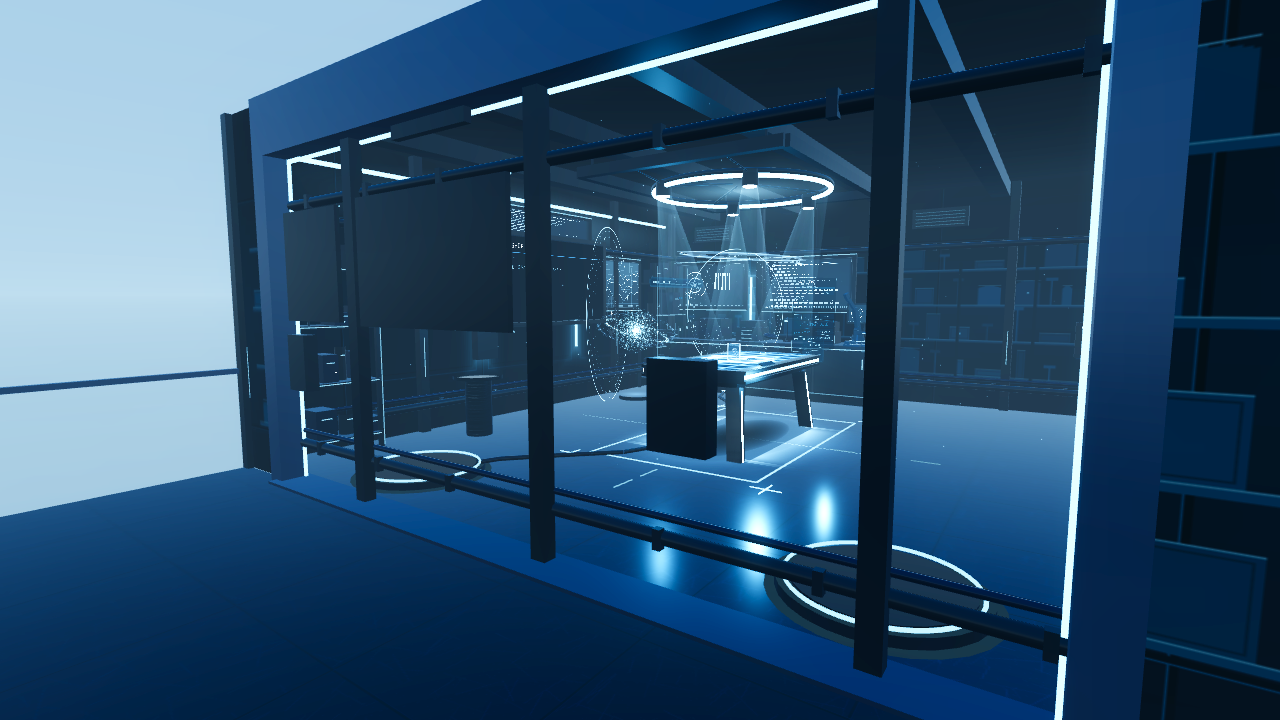
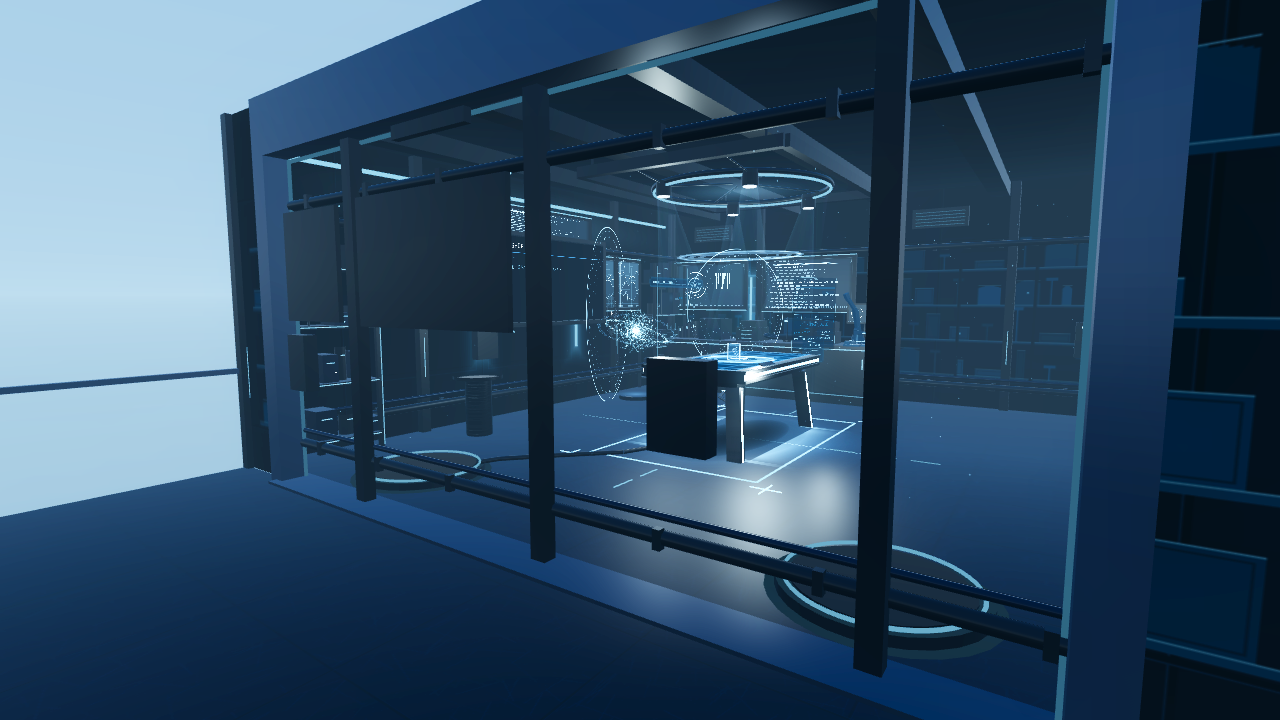
v2 look pass (Jon's critique: kill the obnoxious blue lines — dark quiet architecture, cyan as accent only, ice-white rig light, desaturated vista ambient) + LocoRig locomotion (stick move, head-pivot snap turn, analytic room/door/terrace clamping, RIG_TEST PASS)

diff --git a/BRIEF-round5.md b/BRIEF-round5.md
@@ -83,6 +83,23 @@ they have permanence)" — and the governing bar for all of it: **smooth and int
    Scope guard: ONE active table model solidifies at a time in v1 of this feature; parked
    bench models stay holograms. Multi-solid is a later call.
 
+## The v2 look pass (Jon's critique, 2026-11-24 09:38 ET)
+Jon sent the coast capture back: "This looks choppy and sloppy" + the Gemini walk-in
+render: "Have it more closely resemble this, get rid of the obnoxious blue lines."
+**Standing aesthetic for v2: the architecture is DARK and quiet (charcoal/satin, neutral-
+leaning); cyan exists only as thin accents and in the holograms themselves; the heroes
+are the part on the table and the view outside.** Applied 2026-11-24 (two rounds):
+table grid strengths ~halved (minor .5→.22, major .95→.42, fine .2→.08), hot centre
+.6→.25; light shafts ~⅓; ring/halo/floor-spill ~½; ceiling ring slim (tube .028→.016)
++ 0.4 factor; room strips 1.3→0.8, cove 1.4→0.85, pool .55→.35; walls deeper; floor
+satin (metallic .55→.25, rough →.5); opening light line + suit pads dimmed (pad ring
+.32 factor); the rig's three omnis retinted ice-white (HOLO_PRIMARY lerped 62% to white)
+so the room's light is neutral; vista ambient lowered (coast .27) and the env-sky
+(ambient/reflections only) desaturated 38% toward slate via VistaDeck._slate().
+Verified: captures re-shot (coast reads calm, hero = the bracket), suites pass.
+Residual blue in captures is the titanium/sky-ambient palette itself + the software
+renderer; Jon's headset read is the judge for a third round.
+
 ## Standing constraints (unchanged)
 - Cyan-only hologram/tech palette inside; the vista is the outside world (natural colour).
 - Table-first: nothing about the opening may break table function; suits are decoration.
